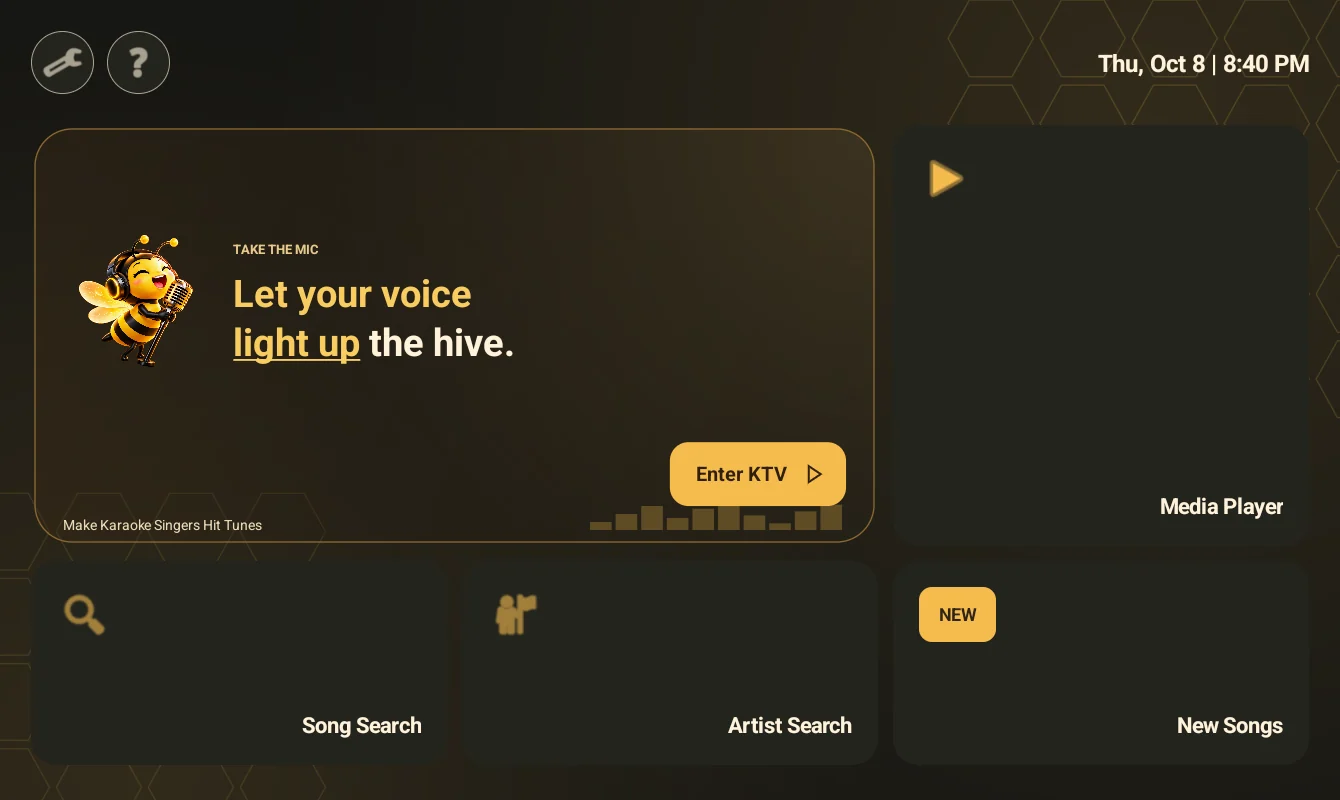
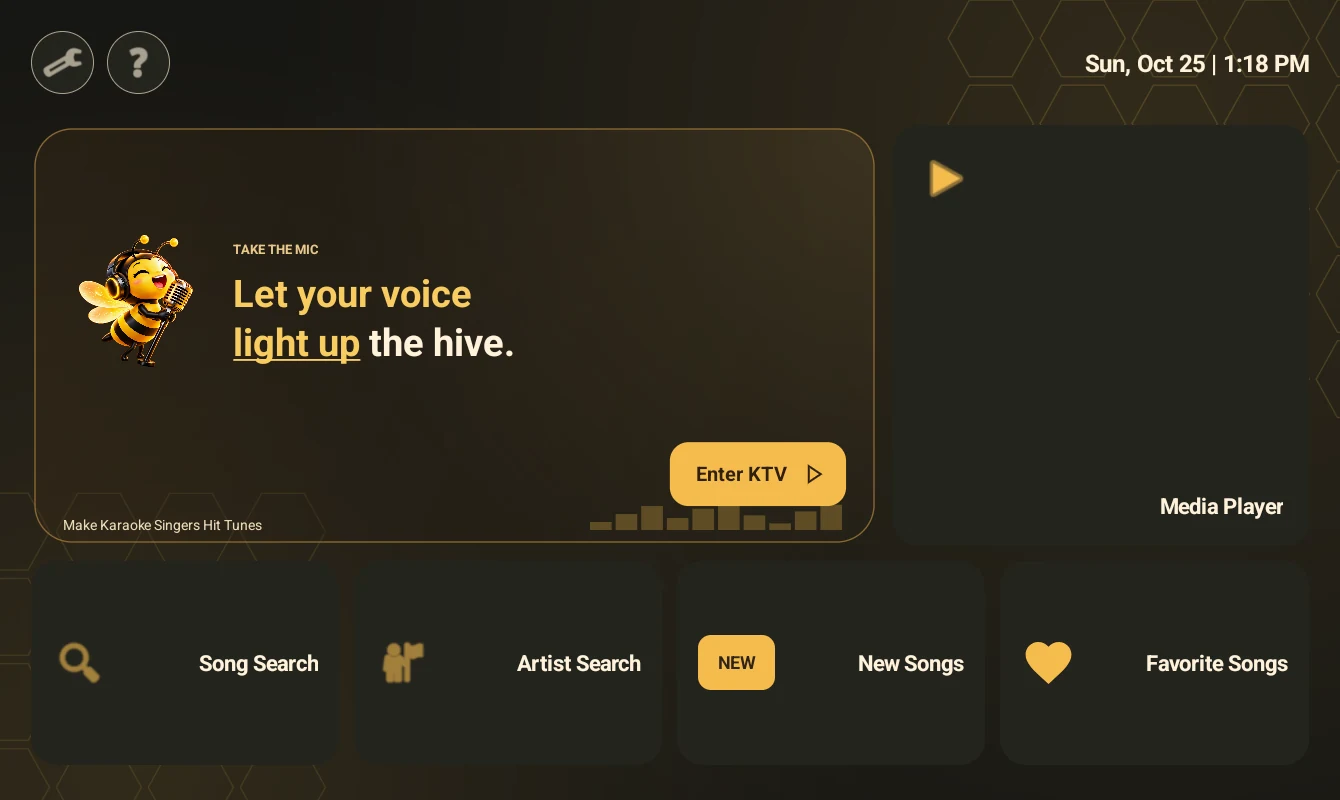
Refresh Android showcase captures and add accessible slideshow

diff --git a/docs/index.html b/docs/index.html
@@ -69,13 +69,15 @@
     </div>
   </section>
 
-  <section class="showcase container section-pad" id="showcase">
-    <div class="section-heading"><div><p class="eyebrow">A CLOSER LOOK</p><h2>At home in<br>the <em>spotlight.</em></h2></div><div class="showcase-control" role="tablist" aria-label="App screenshots"><button type="button" role="tab" id="tab-home" aria-selected="true" aria-controls="showcase-home" tabindex="0">Home</button><button type="button" role="tab" id="tab-karaoke" aria-selected="false" aria-controls="showcase-karaoke" tabindex="-1">Karaoke</button></div></div>
+  <section class="showcase container section-pad" id="showcase" aria-label="Android app screenshots" aria-roledescription="carousel">
+    <div class="section-heading"><div><p class="eyebrow">A CLOSER LOOK</p><h2>At home in<br>the <em>spotlight.</em></h2></div><div class="slideshow-tools" hidden><button type="button" id="slideshow-toggle" aria-label="Pause slideshow">Pause slideshow <span aria-hidden="true">Ⅱ</span></button><div class="slide-arrows"><button type="button" id="slide-prev" aria-label="Previous screenshot">←</button><span id="slide-count" aria-live="off">01 / 04</span><button type="button" id="slide-next" aria-label="Next screenshot">→</button></div></div></div>
     <div class="app-window"><div class="window-bar"><span class="window-dots"><i></i><i></i><i></i></span><span>BEEDEOKE HIVE / ANDROID</span><span class="window-tag">ACTUAL APP</span></div>
-      <div id="showcase-home" role="tabpanel" aria-labelledby="tab-home"><img src="assets/hive-home.webp" width="1340" height="800" loading="lazy" alt="Beedeoke Hive Android home screen with Enter KTV, Media Player, Song Search, Artist Search, and New Songs."><div class="screen-caption"><strong>A warm welcome. A quick start.</strong><span>Your karaoke, media, and song search, together on the home screen.</span></div></div>
-      <div id="showcase-karaoke" role="tabpanel" aria-labelledby="tab-karaoke" hidden><img src="assets/karaoke.webp" width="1340" height="800" loading="lazy" alt="Beedeoke Hive karaoke player with a background video and on-screen numeric controls."><div class="screen-caption"><strong>Ready for the next song.</strong><span>Song entry and playback controls stay close to the stage.</span></div></div>
+      <div class="showcase-slide" id="slide-home" role="group" aria-roledescription="slide" aria-label="1 of 4: Home"><img src="assets/hive-home.webp" width="1340" height="800" loading="lazy" alt="Current Beedeoke Hive Android home screen including Favorite Songs, New Songs, Song Search, Artist Search, Media Player, and Enter KTV."><div class="screen-caption"><strong>All your favorites. One home.</strong><span>Start KTV, find a song, or jump straight into your favorites.</span></div></div>
+      <div class="showcase-slide" id="slide-search" role="group" aria-roledescription="slide" aria-label="2 of 4: Song search" hidden><img src="assets/song-search.webp" width="1340" height="800" loading="lazy" alt="Current Android song search with song codes, singer names, favorite hearts, media filters, and an on-screen keyboard."><div class="screen-caption"><strong>Find your next sing-along.</strong><span>Browse your library with song codes, singer names, and favorites.</span></div></div>
+      <div class="showcase-slide" id="slide-ktv" role="group" aria-roledescription="slide" aria-label="3 of 4: KTV" hidden><img src="assets/karaoke.webp" width="1340" height="800" loading="lazy" alt="Current Android KTV screen with a scenic lake background and six-digit song entry display."><div class="screen-caption"><strong>Your stage is ready.</strong><span>Background visuals and a clear song display set the scene.</span></div></div>
+      <div class="showcase-slide" id="slide-keypad" role="group" aria-roledescription="slide" aria-label="4 of 4: Player controls" hidden><img src="assets/keypad.webp" width="1340" height="800" loading="lazy" alt="Current Android KTV keypad with key, tempo, melody, recording, BGV, playback, and reservation controls over the song showcase."><div class="screen-caption"><strong>The controls, right where you need them.</strong><span>Enter song codes, adjust playback, and keep the queue moving.</span></div></div>
     </div>
-    <div class="showcase-foot"><span>TOUCH · KEYPAD · COMPATIBLE TV REMOTE</span><p>Built for the way you sing.</p></div>
+    <div class="showcase-foot"><div class="slide-dots" aria-label="Choose a screenshot" hidden><button type="button" aria-label="Show Home screenshot" aria-pressed="true" data-slide="0"></button><button type="button" aria-label="Show Song Search screenshot" aria-pressed="false" data-slide="1"></button><button type="button" aria-label="Show KTV screenshot" aria-pressed="false" data-slide="2"></button><button type="button" aria-label="Show Player Controls screenshot" aria-pressed="false" data-slide="3"></button></div><p>Captured from the current Android app.</p></div><p class="sr-only" id="slide-announcement" aria-live="polite" aria-atomic="true"></p>
   </section>
 
   <section class="remote-section section-pad" id="smartlink"><div class="container remote-layout">

diff --git a/docs/site.js b/docs/site.js
@@ -37,26 +37,58 @@ async function refreshRelease(platform, config) {
   } catch { /* Static download links remain usable. */ }
 }
 
-const tabs = [...document.querySelectorAll('[role="tab"]')];
-function selectTab(tab, focus = false) {
-  for (const item of tabs) {
-    const active = item === tab;
-    item.setAttribute('aria-selected', String(active));
-    item.tabIndex = active ? 0 : -1;
-    document.getElementById(item.getAttribute('aria-controls')).hidden = !active;
+const showcase = document.getElementById('showcase');
+const slides = [...showcase.querySelectorAll('.showcase-slide')];
+const dots = [...showcase.querySelectorAll('[data-slide]')];
+const toggle = document.getElementById('slideshow-toggle');
+const reducedMotion = window.matchMedia('(prefers-reduced-motion: reduce)');
+let index = 0;
+let paused = reducedMotion.matches;
+let hovering = false;
+let focused = false;
+let visible = false;
+let timer;
+
+function updateTimer() {
+  clearInterval(timer);
+  if (!paused && !hovering && !focused && visible && !document.hidden) {
+    timer = setInterval(() => showSlide(index + 1), 6000);
   }
-  if (focus) tab.focus();
 }
-tabs.forEach((tab, index) => {
-  tab.addEventListener('click', () => selectTab(tab));
-  tab.addEventListener('keydown', event => {
-    let next;
-    if (event.key === 'ArrowRight') next = (index + 1) % tabs.length;
-    if (event.key === 'ArrowLeft') next = (index - 1 + tabs.length) % tabs.length;
-    if (event.key === 'Home') next = 0;
-    if (event.key === 'End') next = tabs.length - 1;
-    if (next !== undefined) { event.preventDefault(); selectTab(tabs[next], true); }
-  });
+function showSlide(next, announce = false) {
+  index = (next + slides.length) % slides.length;
+  slides.forEach((slide, position) => { slide.hidden = position !== index; });
+  dots.forEach((dot, position) => dot.setAttribute('aria-pressed', String(position === index)));
+  document.getElementById('slide-count').textContent = `${String(index + 1).padStart(2, '0')} / ${String(slides.length).padStart(2, '0')}`;
+  if (announce) document.getElementById('slide-announcement').textContent = slides[index].getAttribute('aria-label');
+}
+function updateToggle() {
+  toggle.setAttribute('aria-label', paused ? 'Play slideshow' : 'Pause slideshow');
+  toggle.innerHTML = paused ? 'Play slideshow <span aria-hidden="true">▷</span>' : 'Pause slideshow <span aria-hidden="true">Ⅱ</span>';
+}
+function manualSlide(next) { showSlide(next, true); updateTimer(); }
+document.getElementById('slide-prev').addEventListener('click', () => manualSlide(index - 1));
+document.getElementById('slide-next').addEventListener('click', () => manualSlide(index + 1));
+dots.forEach(dot => dot.addEventListener('click', () => manualSlide(Number(dot.dataset.slide))));
+toggle.addEventListener('click', () => { paused = !paused; updateToggle(); updateTimer(); });
+showcase.addEventListener('mouseenter', () => { hovering = true; updateTimer(); });
+showcase.addEventListener('mouseleave', () => { hovering = false; updateTimer(); });
+showcase.addEventListener('focusin', () => { focused = true; updateTimer(); });
+showcase.addEventListener('focusout', event => { focused = showcase.contains(event.relatedTarget); updateTimer(); });
+showcase.addEventListener('keydown', event => {
+  if (event.key === 'ArrowRight' || event.key === 'ArrowLeft') {
+    event.preventDefault(); manualSlide(index + (event.key === 'ArrowRight' ? 1 : -1));
+  }
 });
+document.addEventListener('visibilitychange', updateTimer);
+reducedMotion.addEventListener('change', event => {
+  if (event.matches) { paused = true; updateToggle(); updateTimer(); }
+});
+if ('IntersectionObserver' in window) {
+  new IntersectionObserver(entries => { visible = entries[0].isIntersecting; updateTimer(); }, { threshold: 0.25 }).observe(showcase);
+} else { visible = true; }
+showcase.querySelector('.slideshow-tools').hidden = false;
+showcase.querySelector('.slide-dots').hidden = false;
+updateToggle(); updateTimer();
 document.getElementById('year').textContent = new Date().getFullYear();
 for (const [platform, config] of Object.entries(releases)) void refreshRelease(platform, config);

diff --git a/docs/styles.css b/docs/styles.css
@@ -15,3 +15,7 @@
 @media(max-width:380px){nav{gap:14px}.brand{font-size:15px}.hero h1{font-size:64px}.hero .eyebrow{font-size:8px}.hero-actions{gap:14px}.hero-actions .button{padding:14px 12px;font-size:11px;gap:7px}.hero-actions .button svg{width:19px}.hero-actions .text-link{font-size:11px;gap:6px}.feature-grid{grid-template-columns:1fr}.feature-grid p{max-width:100%}.hero-art{height:350px}.mascot{height:330px}}
 @media(prefers-reduced-motion:reduce){html{scroll-behavior:auto}*,*:before,*:after{animation:none!important;transition:none!important}}
 @media(max-width:760px){.hero{grid-template-columns:minmax(0,1fr)}.hero-copy{min-width:0}.hero h1{font-size:clamp(58px,17vw,75px)}.desktop-break{display:none}.hero-actions{flex-wrap:wrap;row-gap:12px}.hero-description{max-width:100%}}
+
+/* Current-app screenshot carousel. */
+.slideshow-tools{display:flex;flex-direction:column;align-items:flex-end;gap:15px}.slideshow-tools button{cursor:pointer;border:1px solid #4b4e39;background:#202319;color:var(--text);border-radius:6px;padding:10px 15px;font-size:12px}.slideshow-tools button:hover{border-color:var(--gold);color:var(--gold)}#slideshow-toggle{display:flex;align-items:center;gap:14px}#slideshow-toggle span{color:var(--gold)}.slide-arrows{display:flex;align-items:center;gap:20px}.slide-arrows button{font-size:19px;padding:3px 14px}#slide-count{font-size:11px;letter-spacing:1px;color:var(--muted);font-variant-numeric:tabular-nums}.slide-dots{display:flex;gap:8px;align-items:center}.slide-dots button{border:0;background:transparent;cursor:pointer;width:30px;height:30px;display:grid;place-items:center;padding:0}.slide-dots button:before{content:'';display:block;width:7px;height:7px;border-radius:50%;background:#666a50;transition:width .2s}.slide-dots button[aria-pressed=true]:before{width:24px;border-radius:10px;background:var(--gold)}.showcase-slide>img{aspect-ratio:1340/800;object-fit:contain;background:#11130e}.sr-only{position:absolute;width:1px;height:1px;padding:0;margin:-1px;overflow:hidden;clip:rect(0,0,0,0);white-space:nowrap;border:0}
+@media(max-width:760px){.slideshow-tools{flex-direction:row;align-items:center;justify-content:space-between;margin-top:25px;gap:15px}.slideshow-tools button{font-size:11px}.slide-arrows{gap:12px}.slide-arrows button{font-size:18px;padding:3px 10px}.showcase-foot{gap:15px}.showcase-foot p{max-width:170px;text-align:right}}

diff --git a/docs/README.md b/docs/README.md
@@ -15,13 +15,18 @@ Expected URL: https://mkshtofficial.github.io/BeedeokeHive/
 
 - `index.html`: text, default release versions, download fallback links, FAQ.
 - `styles.css`: responsive layout, colors, typography, and reduced-motion support.
-- `site.js`: accessible screenshot tabs and latest-release download discovery.
+- `site.js`: accessible screenshot slideshow and latest-release download discovery.
 - `assets/`: existing Hive artwork and actual Android/SmartLink screenshots.
 
 The Windows button opens the latest public release when no installer is attached.
 It automatically becomes a direct download when that release has an `.exe` asset
 whose name contains `setup` or `installer`. Android chooses the release's APK.
 GitHub API rate limits or failures leave the HTML fallback links working.
+
+The screenshot showcase uses four fresh captures from the installed Android app.
+It advances every six seconds while visible, pauses on hover, keyboard focus, or
+a hidden tab, and includes pause/play, previous/next, dots, and arrow-key controls.
+Reduced-motion preferences disable automatic playback by default.
 
 The screenshot showcase shows Android, and the phone image shows SmartLink Android.
 Do not label those screenshots as Windows. Feature text distinguishes Android PiP
